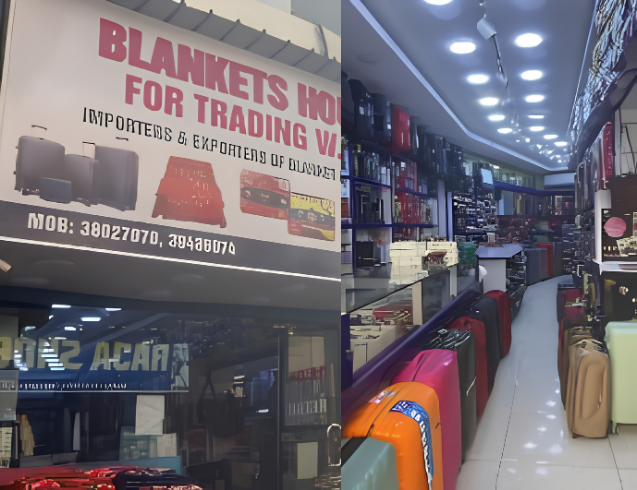
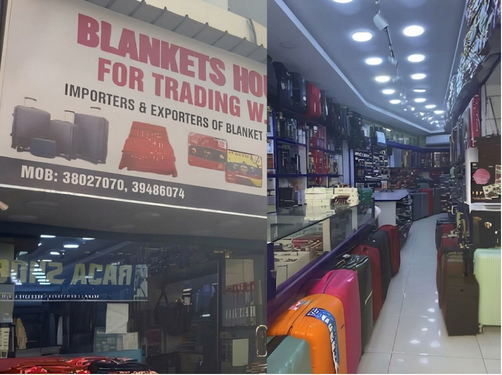
feat(contact): connect real regional shop images and remove deprecated dummy images

diff --git a/data/regionalContacts.ts b/data/regionalContacts.ts
@@ -30,7 +30,7 @@ export const REGIONAL_CONTACTS: RegionalContact[] = [
     flag: "uae",
     companyNameEn: "BLANKET HOUSE TRADING L.L.C.",
     companyNameAr: "شركة بيت البطانيات للتجارة ذ.م.م",
-    image: "/contact/dubai-flagship.jpg",
+    image: "/contact/dubai-shop.png",
     imageAlt: "BHT Collections Dubai Flagship Office",
     addressEn: "Office No. 204, Bldg No. R146 WASL, Same Bldg as Gulf Optics, Baniyas Square, Deira, Dubai, U.A.E.",
     addressAr: "مكتب رقم 204، مبنى وصل رقم R146، نفس مبنى نظارات الخليج، ميدان بني ياس، ديرة، دبي، الإمارات العربية المتحدة",
@@ -51,7 +51,7 @@ export const REGIONAL_CONTACTS: RegionalContact[] = [
     flag: "ksa",
     companyNameEn: "MUBARAK ZAIDAN SHAMRI TRADING CO.",
     companyNameAr: "شركة مبارك زيدان الشمري للتجارة",
-    image: "/contact/dubai-flagship.jpg",
+    image: "/contact/damam-shop.png",
     imageAlt: "BHT Collections Dammam Regional Office",
     addressEn: "8190, Yazid Bin Malik Street, Al Khalidiyah Ash Shamaliya Dist. – 32231, Dammam, K.S.A.",
     addressAr: "8190، شارع يزيد بن مالك، حي الخالدية الشمالية – 32231، الدمام، المملكة العربية السعودية",
@@ -70,7 +70,7 @@ export const REGIONAL_CONTACTS: RegionalContact[] = [
     flag: "qatar",
     companyNameEn: "NEW BLANKET HOUSE TRADING W.L.L.",
     companyNameAr: "شركة بيت البطانيات الجديد للتجارة ذ.م.م",
-    image: "/contact/dubai-flagship.jpg",
+    image: "/contact/qatar-shop.png",
     imageAlt: "BHT Collections Qatar Regional Office",
     addressEn: "Shop No. 57, Souq Al Harraj, Najma, Doha, Qatar",
     addressAr: "محل رقم 57، سوق الحراج، النجمة، الدوحة، قطر",
@@ -90,7 +90,7 @@ export const REGIONAL_CONTACTS: RegionalContact[] = [
     flag: "bahrain",
     companyNameEn: "BLANKETS HOUSE FOR TRADING W.L.L.",
     companyNameAr: "شركة بيت البطانيات للتجارة ذ.م.م",
-    image: "/contact/dubai-flagship.jpg",
+    image: "/contact/bahrain-shop.png",
     imageAlt: "BHT Collections Bahrain Regional Office",
     addressEn: "Shop No. 0, Bldg. No. A0093, Road No. 356, Block No. 302, P.O. Box 3250, Manama, Bahrain",
     addressAr: "محل رقم 0، مبنى رقم A0093، طريق رقم 356، مجمع رقم 302، ص.ب 3250، المنامة، البحرين",
@@ -110,7 +110,7 @@ export const REGIONAL_CONTACTS: RegionalContact[] = [
     flag: "kuwait",
     companyNameEn: "Al Nakhlah Jewellery Co.",
     companyNameAr: "شركة النخلة للمجوهرات والتجارة",
-    image: "/contact/dubai-flagship.jpg",
+    image: "/contact/kuwait-shop.png",
     imageAlt: "BHT Collections Kuwait Regional Office",
     addressEn: "Souk Al Kuwait, Shop No. 35, Oman Street, Mubarakiyya, Kuwait City, Kuwait - P.O. Box: 22840",
     addressAr: "سوق الكويت، محل رقم 35، شارع عمان، المباركية، مدينة الكويت، الكويت - ص.ب: 22840",
@@ -129,7 +129,7 @@ export const REGIONAL_CONTACTS: RegionalContact[] = [
     flag: "oman",
     companyNameEn: "BLANKET HOUSESHINING MEDAL GLOBAL CO. LLC",
     companyNameAr: "شركة ميدالية لمعان بيت البطانيات العالمية ش.م.م",
-    image: "/contact/dubai-flagship.jpg",
+    image: "/contact/oman-shop.png",
     imageAlt: "BHT Collections Oman Regional Office",
     addressEn: "Opposite Makkah Centre, Next to Bank Saderat Iran, Ruwi High Street, Muscat, Oman",
     addressAr: "مقابل مركز مكة، بجوار بنك صادرات إيران، شارع روي التجاري، مسقط، سلطنة عمان",

diff --git a/components/about/AboutPresentDarkSection.tsx b/components/about/AboutPresentDarkSection.tsx
@@ -18,7 +18,7 @@ export const AboutPresentDarkSection: React.FC = () => {
           <div className="lg:col-span-6 flex items-center justify-center">
             <div className="relative w-full max-w-[560px] aspect-[4/3] rounded-lg overflow-hidden border border-neutral-800 group bg-neutral-900">
               <Image
-                src="/contact/dubai-flagship.jpg"
+                src="/contact/dubai-shop.png"
                 alt="BHT Collections Dubai Flagship Experience"
                 fill
                 className="object-cover object-center transition-transform duration-700 group-hover:scale-103"
